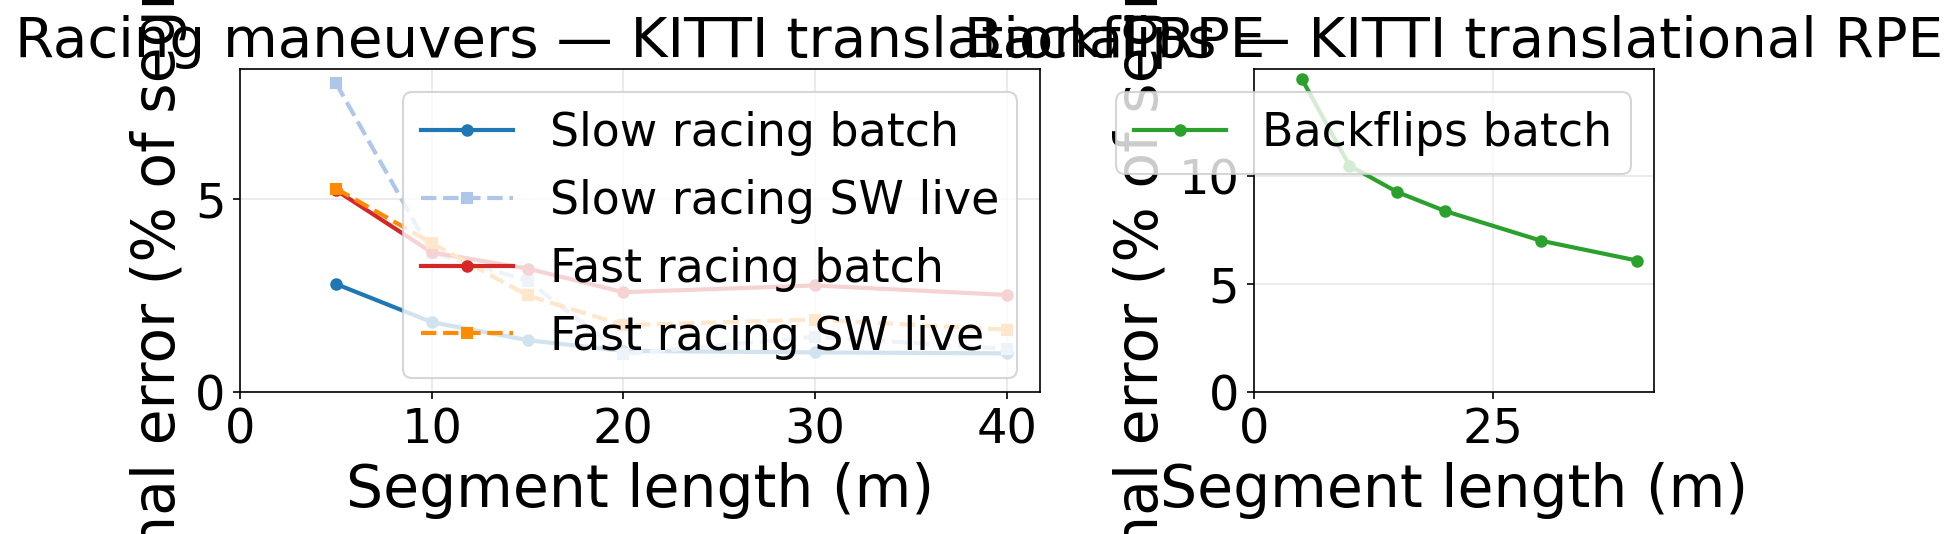
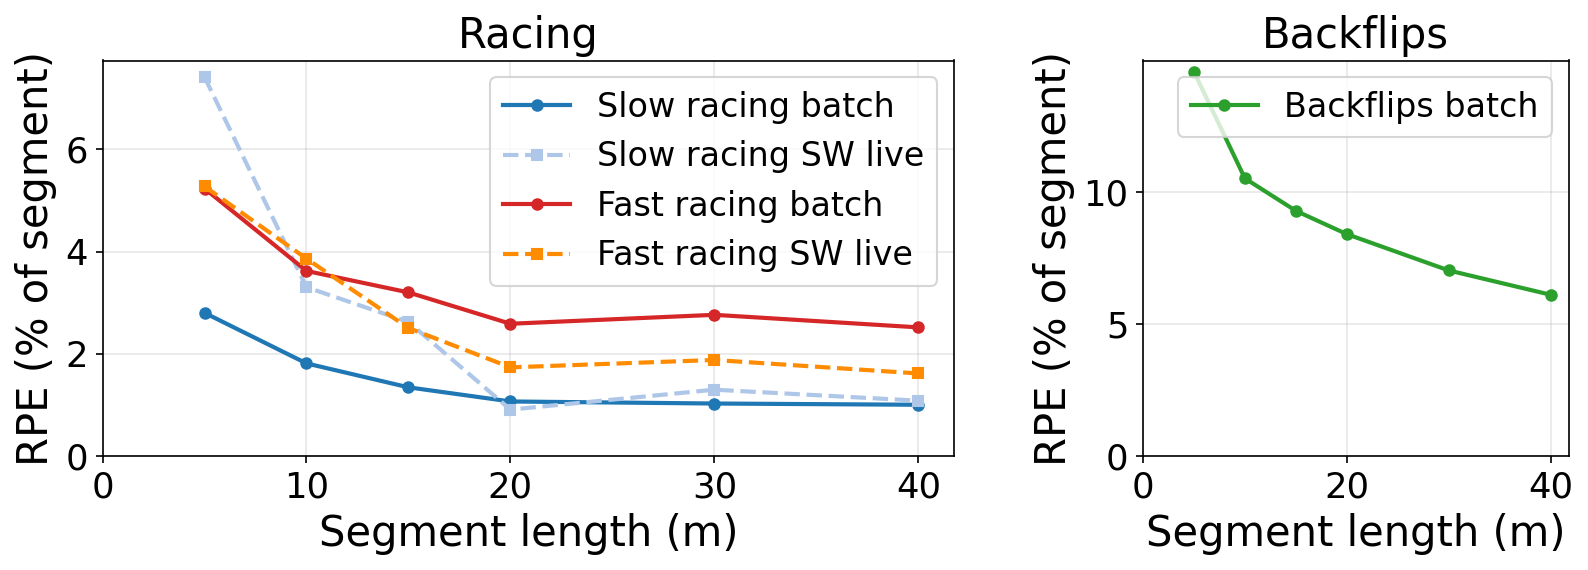
report/: fix figure legends + overfull tables
Figures:
- error_over_time: drop in-axes legend (overlapped data); colour key
  already in caption (batch=red dashed, SW live=orange dotted)
- prior_scale: left/orientation legend -> center-right (was over the
  fast-racing line at top); right/position legend -> upper-center
- rpe/error_time/prior_scale font + title trims (carried from prior pass)

Tables (0 overfull hboxes now, 12pp held):
- tab:baselines (Table III, 43pt over): -> full-width table*, colsep 8pt
- tab:sw (Table II, 16pt over): colsep 3.0->2.5pt, shorten Drift%/t_win headers
- tab:prior_scale (Table VI, 11pt over): wrap footnote in p{\columnwidth}, colsep 4->3pt
- tab:ablations (Table V, 4pt over): colsep 6->4pt

diff --git a/report/figures/gen_prior_scale.py b/report/figures/gen_prior_scale.py
@@ -19,13 +19,13 @@ OUT_DIR = Path(__file__).parent
 OUT_DIR.mkdir(parents=True, exist_ok=True)
 
 matplotlib.rcParams.update({
-    # authored ~9in, displayed ~3.45in (~0.38x); fonts sized for ~9-10pt on page
-    'font.size':       24,
-    'axes.labelsize':  24,
-    'axes.titlesize':  23,
-    'xtick.labelsize': 20,
-    'ytick.labelsize': 20,
-    'legend.fontsize': 19,
+    # authored ~9in, displayed ~3.45in (~0.38x); fonts sized for ~7-8pt on page
+    'font.size':       18,
+    'axes.labelsize':  17,
+    'axes.titlesize':  18,
+    'xtick.labelsize': 15,
+    'ytick.labelsize': 15,
+    'legend.fontsize': 14,
     'lines.linewidth': 2.0,
     'figure.dpi':      150,
 })
@@ -59,9 +59,9 @@ ax_ori.text(2.5e-6, slow_ori.min() + (slow_ori.max() - slow_ori.min()) * 0.1,
 ax_ori.axvline(1e-7, color=C_SLOW, lw=0.8, linestyle=':', alpha=0.6)
 ax_ori.axvline(2e-4, color=C_FAST, lw=0.8, linestyle=':', alpha=0.6)
 ax_ori.set_xlabel('marg_prior_scale')
-ax_ori.set_ylabel('Live-edge orientation RMSE (°)')
-ax_ori.set_title('Orientation RMSE vs. prior scale')
-ax_ori.legend(loc='upper right')
+ax_ori.set_ylabel('Orientation RMSE (°)')
+ax_ori.set_title('Orientation')
+ax_ori.legend(loc='center right')
 ax_ori.grid(True, alpha=0.3, which='both')
 
 # --- Position panel: dual y-axes for legibility ---
@@ -73,15 +73,15 @@ ax2.semilogx(fast_scales, fast_pos, 's--', color=C_FAST,
 ax_pos.axvline(1e-7, color=C_SLOW, lw=0.8, linestyle=':', alpha=0.6)
 ax_pos.axvline(2e-4, color=C_FAST, lw=0.8, linestyle=':', alpha=0.6)
 ax_pos.set_xlabel('marg_prior_scale')
-ax_pos.set_ylabel('Live-edge pos. RMSE — Slow racing (m)', color=C_SLOW)
-ax2.set_ylabel('Live-edge pos. RMSE — Fast racing (m)', color=C_FAST)
+ax_pos.set_ylabel('Slow pos. RMSE (m)', color=C_SLOW)
+ax2.set_ylabel('Fast pos. RMSE (m)', color=C_FAST)
 ax_pos.tick_params(axis='y', labelcolor=C_SLOW)
 ax2.tick_params(axis='y', labelcolor=C_FAST)
-ax_pos.set_title('Position RMSE vs. prior scale')
+ax_pos.set_title('Position')
 # Combined legend
 lines1, labs1 = ax_pos.get_legend_handles_labels()
 lines2, labs2 = ax2.get_legend_handles_labels()
-ax_pos.legend(lines1 + lines2, labs1 + labs2, loc='upper left', fontsize=9)
+ax_pos.legend(lines1 + lines2, labs1 + labs2, loc='upper center', fontsize=9)
 ax_pos.grid(True, alpha=0.3, which='both')
 
 fig.tight_layout()

diff --git a/report/figures/gen_rpe.py b/report/figures/gen_rpe.py
@@ -67,13 +67,13 @@ C = {
 }
 
 matplotlib.rcParams.update({
-    # authored ~11in, displayed ~3.45in (~0.31x); fonts sized for ~9-10pt on page
-    'font.size':       28,
-    'axes.labelsize':  28,
-    'axes.titlesize':  27,
-    'xtick.labelsize': 23,
-    'ytick.labelsize': 23,
-    'legend.fontsize': 22,
+    # authored ~11in, displayed ~3.45in (~0.31x); fonts sized for ~7-9pt on page
+    'font.size':       20,
+    'axes.labelsize':  20,
+    'axes.titlesize':  20,
+    'xtick.labelsize': 17,
+    'ytick.labelsize': 17,
+    'legend.fontsize': 16,
     'lines.linewidth': 2.0,
     'figure.dpi':      150,
 })
@@ -208,8 +208,8 @@ for bag_key, label in RACING_BAGS:
                 label=f'{label} SW live')
 
 ax.set_xlabel('Segment length (m)')
-ax.set_ylabel('Translational error (% of segment length)')
-ax.set_title('Racing maneuvers — KITTI translational RPE')
+ax.set_ylabel('RPE (% of segment)')
+ax.set_title('Racing')
 ax.legend(loc='upper right')
 ax.grid(True, alpha=0.3)
 ax.set_ylim(bottom=0)
@@ -226,8 +226,8 @@ if d is not None:
             label=f'{label} batch')
 
 ax.set_xlabel('Segment length (m)')
-ax.set_ylabel('Translational error (% of segment length)')
-ax.set_title('Backflips — KITTI translational RPE')
+ax.set_ylabel('RPE (% of segment)')
+ax.set_title('Backflips')
 ax.legend(loc='upper right')
 ax.grid(True, alpha=0.3)
 ax.set_ylim(bottom=0)

diff --git a/report/main.tex b/report/main.tex
@@ -779,10 +779,10 @@ Fig.~\ref{fig:error_time} shows the corresponding error timeseries.
   (consistent unscaled prior; per-window solve time on a laptop CPU)}
 \label{tab:sw}
 \small
-\setlength{\tabcolsep}{3.0pt}
+\setlength{\tabcolsep}{2.5pt}
 \begin{tabular}{@{}llccccc@{}}
 \toprule
-Bag & Mode & Vel (m/s) & Ori (\degree) & Pos (m) & Drift (\%) & $t_{\mathrm{win}}$ (s) \\
+Bag & Mode & Vel (m/s) & Ori (\degree) & Pos (m) & Drift\% & $t_{\mathrm{win}}$(s) \\
 \midrule
 \multirow{2}{*}{Slow racing}
   & Settled & 0.39 & 1.54 & 0.287 & 0.60 & \multirow{2}{*}{0.70} \\
@@ -1022,7 +1022,7 @@ This is the design-space split: their stack is engineered for dense
 clouds, hardware triggering, and a low-vibration carrier; ours for
 sparse, finely quantized Doppler on an aggressive platform.
 
-\begin{table}[t]
+\begin{table*}[t]
 \caption{Cross-validation on the public ICINS-2021 flight datasets
 \cite{doer2021yrio}.  All systems evaluated with our causal protocol
 (live estimate, start-anchored alignment): position RMSE [m] /
@@ -1033,7 +1033,7 @@ heading-independent and per-axis structure.}
 \label{tab:baselines}
 \centering
 \footnotesize
-\setlength{\tabcolsep}{3.5pt}
+\setlength{\tabcolsep}{8pt}
 \begin{tabular}{lccc}
 \toprule
 Flight (path) & ekf-rio & ekf-yrio & Ours \\
@@ -1044,7 +1044,7 @@ Flight (path) & ekf-rio & ekf-yrio & Ours \\
 4 (78\,m)  & 0.39 / 0.09 / 3.67 / 0.5 & \textbf{0.22} / \textbf{0.07} / 1.41 / \textbf{0.3} & 0.92 / 0.07 / \textbf{1.13} / 1.2 \\
 \bottomrule
 \end{tabular}
-\end{table}
+\end{table*}
 
 \begin{table*}[t]
 \caption{Decomposition of the Table~\ref{tab:baselines} cross-validation, making the
@@ -1109,6 +1109,7 @@ Table~\ref{tab:ablations} summarizes key design choices.
 \caption{Selected Ablation Results (batch solver, slow\_racing unless noted)}
 \label{tab:ablations}
 \small
+\setlength{\tabcolsep}{4pt}
 \begin{tabular}{@{}lcc@{}}
 \toprule
 Configuration & Pos (m) & Ori (\degree) \\
@@ -1323,7 +1324,7 @@ plots the orientation sweep.
 \caption{Prior Scale Sensitivity (SW, live-edge RMSE)}
 \label{tab:prior_scale}
 \small
-\setlength{\tabcolsep}{4pt}
+\setlength{\tabcolsep}{3pt}
 \begin{tabular}{@{}lcccc@{}}
 \toprule
 \texttt{scale} & \multicolumn{2}{c}{Slow racing} & \multicolumn{2}{c}{Fast racing} \\
@@ -1335,9 +1336,9 @@ $10^{-6}$                                & 0.442 & 2.21$^*$ & 0.951 & 3.57 \\
 $\bm{10^{-7}}$ \textbf{(slow default)}  & \textbf{0.338} & \textbf{2.08} & 1.279 & 3.57 \\
 $10^{-8}$                                & 0.336 & 2.08 & 1.344 & 3.57 \\
 \bottomrule
-\multicolumn{5}{l}{$^*$Orientation local maximum: 2.21\degree\ $>$ 2.16\degree\ (2e-4) and
-  2.08\degree\ (1e-7).}\\
-\multicolumn{5}{l}{---: scale not evaluated for this bag.}\\
+\multicolumn{5}{@{}p{\columnwidth}@{}}{\scriptsize $^*$Orientation
+  local maximum: 2.21\degree\ $>$ 2.16\degree\ (2e-4) and
+  2.08\degree\ (1e-7).  ---: scale not evaluated for this bag.}\\
 \multicolumn{5}{@{}p{\columnwidth}@{}}{\scriptsize Measured under the
   inconsistent-prior diagnostic configuration (predates the RANSAC
   default); the sensitivity \emph{pattern}, not the absolutes, is the

diff --git a/report/figures/gen_error_time.py b/report/figures/gen_error_time.py
@@ -49,7 +49,7 @@ matplotlib.rcParams.update({
 C_BATCH = '#d62728'
 C_LIVE  = 'darkorange'
 
-fig, axes = plt.subplots(len(BAGS), 3, figsize=(13, 4.5 * len(BAGS)))
+fig, axes = plt.subplots(len(BAGS), 3, figsize=(13, 3.2 * len(BAGS)))
 if len(BAGS) == 1:
     axes = axes[np.newaxis, :]
 
@@ -99,7 +99,6 @@ for row, (bag_key, bag_label) in enumerate(BAGS):
     ax_pos.set_xlabel('Time (s)')
     ax_pos.set_ylabel('Position error (m)')
     ax_pos.set_title(f'{bag_label} — position')
-    ax_pos.legend(loc='upper left')
     ax_pos.grid(True, alpha=0.3)
     ax_pos.set_ylim(bottom=0)
 